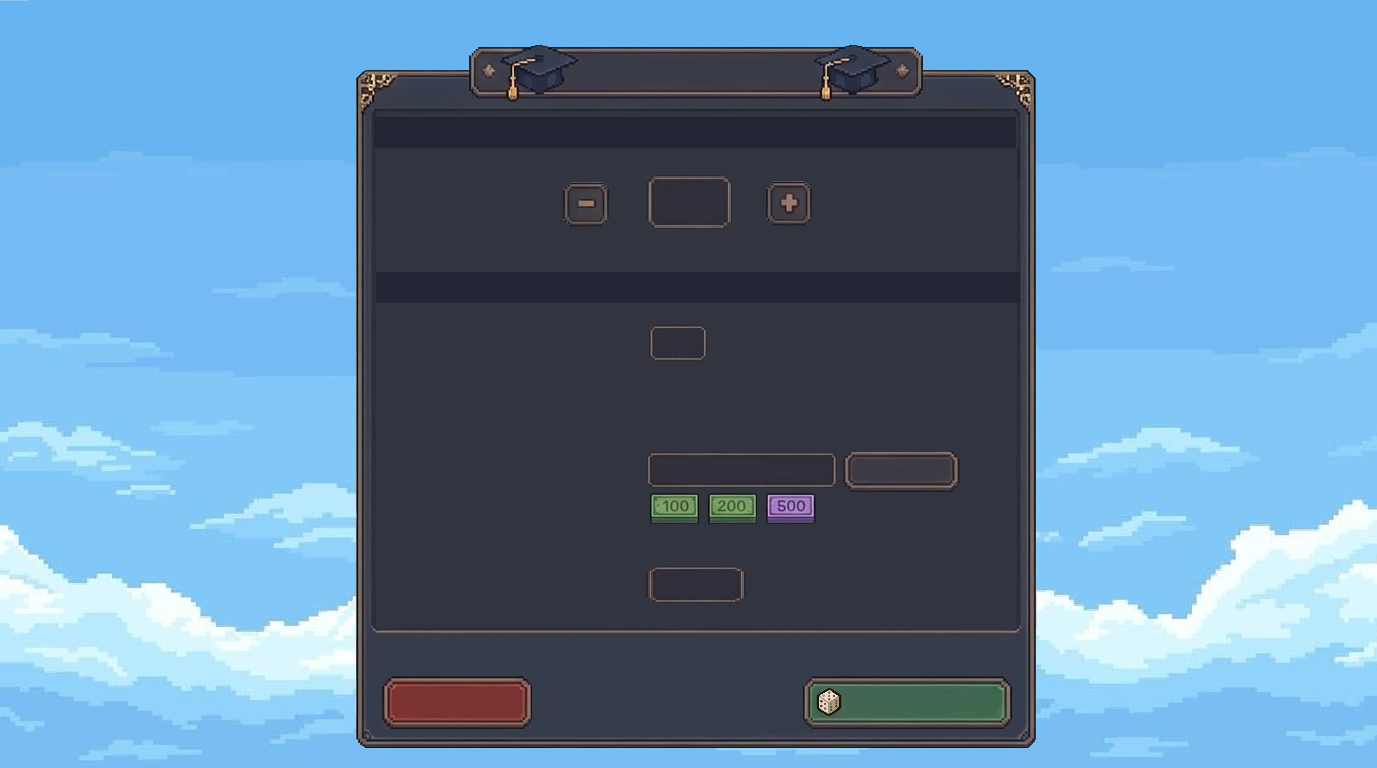
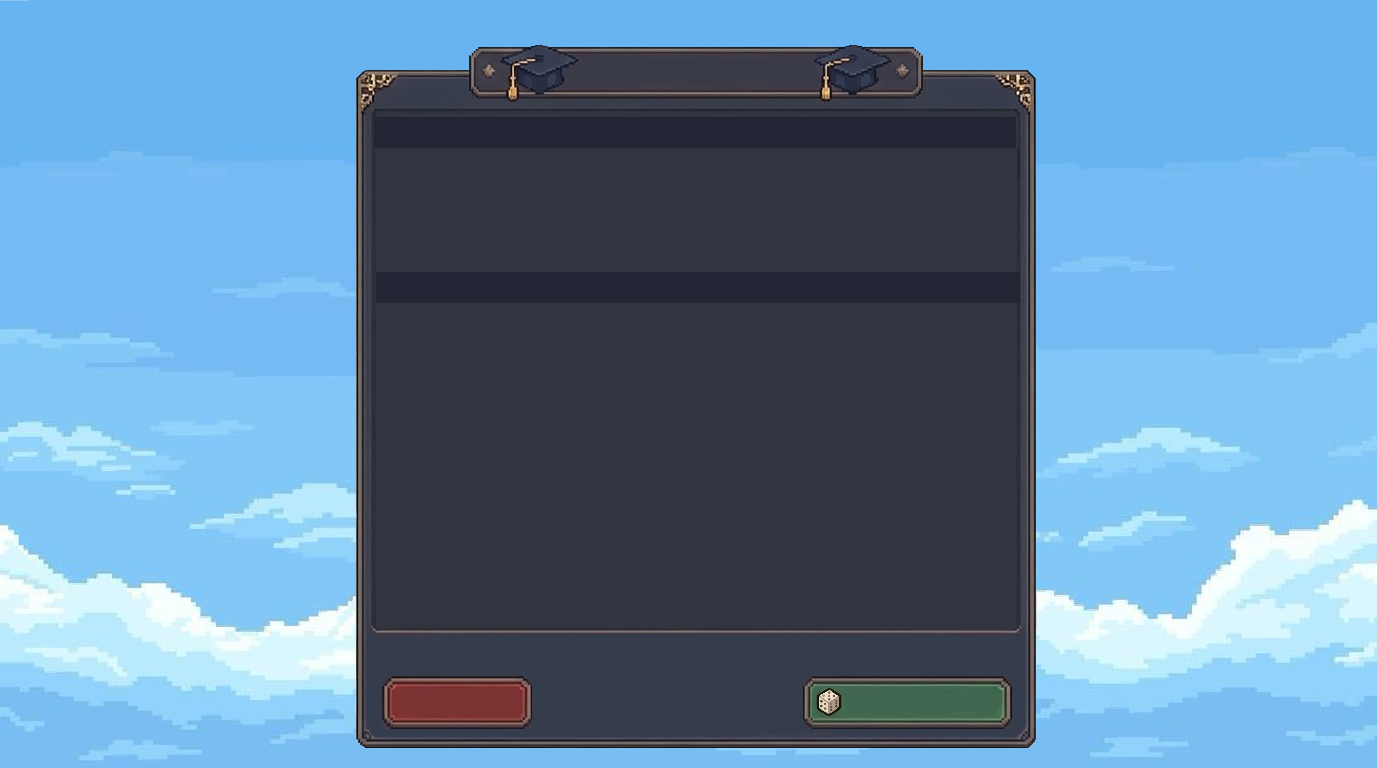
changement image

diff --git a/Interface/view.c b/Interface/view.c
@@ -64,7 +64,6 @@ void render(SDL_Renderer* renderer, EtatJeu state, TexturesPack* tex, TextsPack*
             
             printTextResponsive(renderer, fontButton, &texts->btnLaunchGame);
             printTextResponsive(renderer, fontButton, &texts->btnCancel);
-            printTextResponsive(renderer, fontButton, &texts->btnValid);
             printTextResponsive(renderer, fontNormal, &texts->initialMoney);
             printTextResponsive(renderer, fontNormal, &texts->tillBankruptcy);
             printTextResponsive(renderer, fontNormal, &texts->numbTurns);
@@ -180,6 +179,10 @@ void handleEvents(SDL_Event* event, EtatJeu* state, ButtonsPack* btn, TextsPack*
 
                 case NOUVPARTIE:
                     if (isClicked(&btn->launchGame, x, y)) {
+                        printf("Argent initial : %s | Tours : %s | Evenements : %s\n",
+                               tboxes->initialMoney.text,
+                               tboxes->numbTurns.text,
+                               tboxes->eventFreq.text);
                         switch (counterJoueurs->value) {
                             case 2: *state = PLATEAU2J; break;
                             case 3: *state = PLATEAU3J; break;
@@ -187,12 +190,6 @@ void handleEvents(SDL_Event* event, EtatJeu* state, ButtonsPack* btn, TextsPack*
                         }
                     }
                     if (isClicked(&btn->cancel,     x, y)) *state = MENU;
-                    if (isClicked(&btn->validMoney, x, y)) {
-                        printf("Argent initial : %s | Tours : %s | Evenements : %s\n",
-                               tboxes->initialMoney.text,
-                               tboxes->numbTurns.text,
-                               tboxes->eventFreq.text);
-                    }
                     handleCounter(counterJoueurs, x, y);
                     break;
 
@@ -217,7 +214,7 @@ void handleEvents(SDL_Event* event, EtatJeu* state, ButtonsPack* btn, TextsPack*
             Button* allButtons[] = {
                 &btn->newGame, &btn->loadGame, &btn->save,
                 &btn->backToMenu, &btn->throwDice, &btn->properties,
-                &btn->launchGame, &btn->cancel, &btn->validMoney
+                &btn->launchGame, &btn->cancel,
             };
             
             int btnCount = sizeof(allButtons) / sizeof(allButtons[0]);
@@ -229,7 +226,7 @@ void handleEvents(SDL_Event* event, EtatJeu* state, ButtonsPack* btn, TextsPack*
             }
 
             Text* allTexts[] = {
-                &texts->btnLaunchGame, &texts->btnCancel, &texts->btnValid, &texts->initialMoney,
+                &texts->btnLaunchGame, &texts->btnCancel, &texts->initialMoney,
                 &texts->tillBankruptcy, &texts->numbTurns, &texts->event, &texts->btnThrowDice, &texts->btnProperties,
                 &texts->btnEndTurn,
             };

diff --git a/Interface/main_view.c b/Interface/main_view.c
@@ -28,6 +28,7 @@ int main(){
     SDL_Renderer* renderer = SDL_CreateRenderer(window, -1, SDL_RENDERER_ACCELERATED);
 
     TTF_Init();
+    TTF_Font* fontPetit  =TTF_OpenFont("FONT/fontPixel.ttf",18);
     TTF_Font* fontButton = TTF_OpenFont("FONT/fontPixel.ttf", 22);
     TTF_Font* fontNormal = TTF_OpenFont("FONT/fontPixel.ttf", 32);
     TTF_Font* fontTitle  = TTF_OpenFont("FONT/fontPixel.ttf", 38);
@@ -43,7 +44,6 @@ int main(){
         .properties = { .ref = {1107, 615, 160, 44} },
         .launchGame = { .ref = { 747, 636, 193, 45} },
         .cancel     = { .ref = { 359, 636, 134, 45} },
-        .validMoney = { .ref = { 785, 422, 105, 36} },
     };
 
     
@@ -63,7 +63,6 @@ int main(){
         /*Nouvelle partie*/
         .btnLaunchGame  = { "Lancer la partie",  790, 650, 22, 790,650,22, ALIGN_LEFT, {235,221,192,255} },
         .btnCancel      = { "Annuler",           392, 650, 22, 392,650,22, ALIGN_LEFT, {235,221,192,255} },
-        .btnValid       = { "Valider",           810, 432, 22, 810,432,22, ALIGN_LEFT, {235,221,192,255} },
         .numbTurns      = { "Nombre de tours",   380, 310, 22, 380,310,22, ALIGN_LEFT, {235,221,192,255} },
         .tillBankruptcy = { "Ou jusqu'a la faillite", 380, 355, 22, 380,355,22, ALIGN_LEFT, {235,221,192,255} },
         .initialMoney   = { "Argent initial",    380, 430, 22, 380,430,22, ALIGN_LEFT, {235,221,192,255} },
@@ -82,16 +81,16 @@ int main(){
     }
 
     
-    initTextBox(&tboxes.initialMoney, 630, 422,  140, 36);
-    initTextBox(&tboxes.numbTurns,    630, 304,  140, 36);
-    initTextBox(&tboxes.eventFreq,    630, 528,  140, 36);
+    initTextBox(&tboxes.initialMoney, 680, 422,  140, 36);
+    initTextBox(&tboxes.numbTurns,    680, 304,  140, 36);
+    initTextBox(&tboxes.eventFreq,    680, 528,  140, 36);
 
     initCounter(&counterJoueurs, 2, 4, 2, 716, 172, 526, 172, 37, 37, 634, 176);
     
     Button* allButtons[] = {
         &btn.newGame, &btn.loadGame, &btn.save,
         &btn.backToMenu, &btn.throwDice, &btn.properties,
-        &btn.launchGame, &btn.cancel, &btn.validMoney
+        &btn.launchGame, &btn.cancel,
     };
 
     int btnCount = sizeof(allButtons) / sizeof(allButtons[0]);
@@ -105,7 +104,7 @@ int main(){
         &texts.menuNewGame,&texts.menuLoadGame, &texts.menuSave,
         &texts.titleNewGame, &texts.btnLaunchGame, &texts.btnCancel, &texts.numberPlayer,
         &texts.chooseParam, &texts.initialMoney, &texts.tillBankruptcy,
-        &texts.numbTurns, &texts.event, &texts.btnValid
+        &texts.numbTurns, &texts.event
     };
     int textCount = sizeof(allTexts) / sizeof(allTexts[0]);
     scaleAllTexts(allTexts, textCount,ratioX, ratioY);

diff --git a/Interface/view.h b/Interface/view.h
@@ -44,7 +44,7 @@ typedef struct{
     /*Game Board*/
     Button backToMenu, throwDice, properties;
     /*New Game*/
-    Button launchGame, cancel, validMoney;
+    Button launchGame, cancel;
 } ButtonsPack;
 
 typedef struct {
@@ -58,7 +58,6 @@ typedef struct {
     Text chooseParam;
     Text btnLaunchGame;
     Text btnCancel;
-    Text btnValid;
     Text initialMoney;
     Text tillBankruptcy;
     Text numbTurns;
